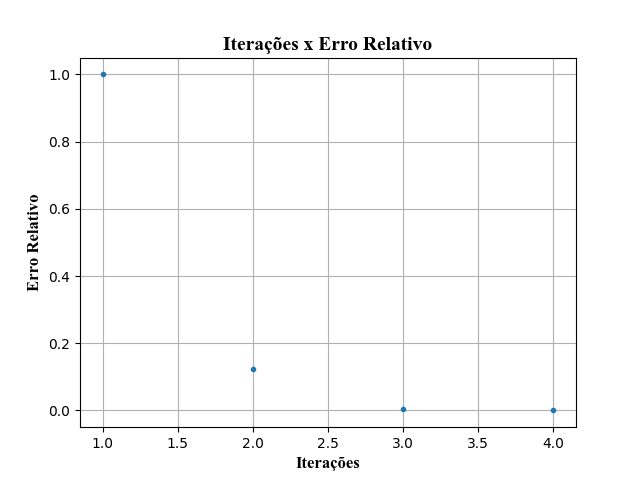
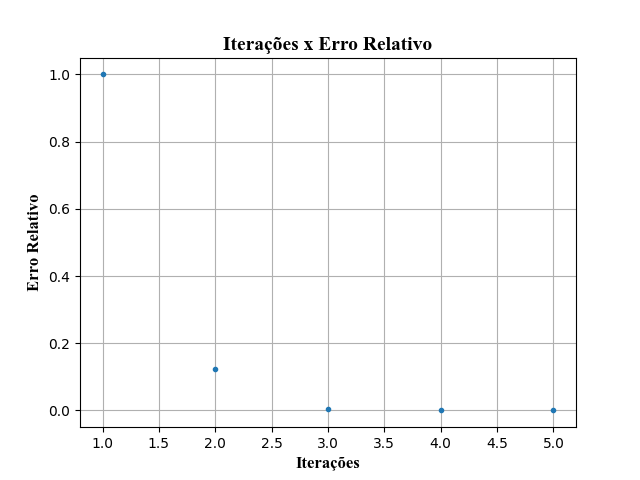
Mudanças para plotar os gráficos finais

diff --git a/parte2b.py b/parte2b.py
@@ -67,13 +67,20 @@ u0s = [np.zeros([Ns[0]-2]), np.zeros([Ns[1]-2]), np.zeros([Ns[2]-2])]
 # Lambda
 lambidas = [1,2,3,4,5,6]
 
+
+
+solucoes_to_plot = {}
+solucoes_to_plot["N10"] = []
+solucoes_to_plot["N50"] = []
+solucoes_to_plot["N100"] = []
+
 nomes_graficos = ["Grafico_Lambda_1", "Grafico_Lambda_2", "Grafico_Lambda_3", "Grafico_Lambda_4", "Grafico_Lambda_5", "Grafico_Lambda_6" ]
 
 for [lambida, nome_grafico] in zip(lambidas, nomes_graficos):
-    solucoes_plot = []
+    
     for [xloc, h, N, u0] in zip(xlocs, hs, Ns, u0s):
         
-        n_iteracoes, distancias_do_zero, solucoes = newton_raphson_system(lambida, xloc, h, N, u0, funcao2, monta_jacobiano2, tol=1e-5, max_iter=100)
+        n_iteracoes, distancias_do_zero, solucoes = newton_raphson_system(lambida, xloc, h, N, u0, funcao2, monta_jacobiano2, tol=1e-7, max_iter=100)
         # Uma vez que o vetor de soluções está aqui, ele ainda não tem anexado nele os valores da condição de contorno, logo, é necessário anexar aqui
         solucao_plot = np.array([])
         solucao_plot = np.append(solucao_plot, 0)
@@ -81,7 +88,9 @@ for [lambida, nome_grafico] in zip(lambidas, nomes_graficos):
         solucoes = np.append(solucoes, 0)
         # Anexando condição de contorno INFERIOR
         solucao_plot = np.append(solucao_plot, solucoes)
-        solucoes_plot.append(solucao_plot)
+        solucoes_to_plot["N"+str(N)].append(solucao_plot)
         
-    plota_graficos.plota_parte_b(xs, solucoes_plot,"Grafico_parte_B_lambda_"+str(lambida), lambida)
+for [x, N, solucoes_to_N] in zip(xs, Ns, solucoes_to_plot):
+    
+    plota_graficos.plota_parte_b_N_Para_mesmos_Lambdas(x, solucoes_to_plot[solucoes_to_N],"Grafico_parte_B_N_"+str(N), N, lambidas)
 

diff --git a/parte2.py b/parte2.py
@@ -1,5 +1,6 @@
 import numpy as np
 import plota_graficos
+import time
 # Disretizar o domínio dado, [a,b] em N pontos
 # Passo para cada ponto: (b-a)/N, b>a
 # Aproximação para a segunda derivada: (y_antes - 2*y_atual + y_depois)/passo^2
@@ -70,7 +71,7 @@ def newton_raphson_system(lambida, x, h, N, u0, funcao, jacobian, tol=1e-7, max_
     return iteracoes, distancias_do_zero, u 
 
 # Discretização
-N = 10
+N = 50
 # Passo da Discretização
 h = 1.0/N
 # Vetor para os valores de x 
@@ -81,7 +82,15 @@ u0 = np.zeros([N-2])
 # Lambda
 lambida = 2
 
-n_iteracoes, distancias_do_zero, solucoes = newton_raphson_system(lambida, xloc, h, N, u0, funcao, monta_jacobiano2, tol=1e-5, max_iter=100)
+# Pega o tempo do começo da execução
+tempo_comeco = time.time()
+# Chama o método
+n_iteracoes, distancias_do_zero, solucoes = newton_raphson_system(lambida, xloc, h, N, u0, funcao, monta_jacobiano2, tol=1e-7, max_iter=100)
+# Pega o tempo do começo da execução
+tempo_fim = time.time()
+
+print()
+print(tempo_fim-tempo_comeco)
 
 # Uma vez que o vetor de soluções está aqui, ele ainda não tem anexado nele os valores da condição de contorno, logo, é necessário anexar aqui
 solucao_plot = np.array([])

diff --git a/plota_graficos.py b/plota_graficos.py
@@ -44,7 +44,7 @@ def plota_EDO(vetor_x, vetor_y, nome_graficos):
     #plt.ylim(-1,9)
     plt.grid()
     plt.plot(vetor_x, vetor_y)
-    plt.savefig("./Graficos/"+nome_graficos+".png")
+    plt.savefig("./GraficosParteB/"+nome_graficos+".png")
     plt.close()
 
 def plota_parte_b(xs, solucoes, nome_graficos, lambida ):
@@ -65,4 +65,23 @@ def plota_parte_b(xs, solucoes, nome_graficos, lambida ):
         
     plt.legend()
     plt.savefig("./GraficosParteB/"+nome_graficos+".png")
+    plt.close()
+    
+def plota_parte_b_N_Para_mesmos_Lambdas(x, solucoes, nome_graficos, N, lambidas):
+    
+    plt.title("Gráfico Aproximado da EDO para N = "+str(N), fontdict = fonte_titulo)
+    
+    plt.xlabel("x", fontdict = fonte_labels)
+    plt.ylabel("u(x)", fontdict = fonte_labels)
+    
+    #plt.xticks(np.arange(0,100,1))
+    #plt.xlim(5,19)
+    #plt.yticks(np.arange(0,5,1))
+    #plt.ylim(-1,9)
+    plt.grid()
+    for [solucao, label] in zip(solucoes, lambidas):
+        plt.plot(x, solucao, label = "λ = "+str(label))
+        
+    plt.legend()
+    plt.savefig("./Graficos_ParteB_FINAL/"+nome_graficos+".png")
     plt.close()
